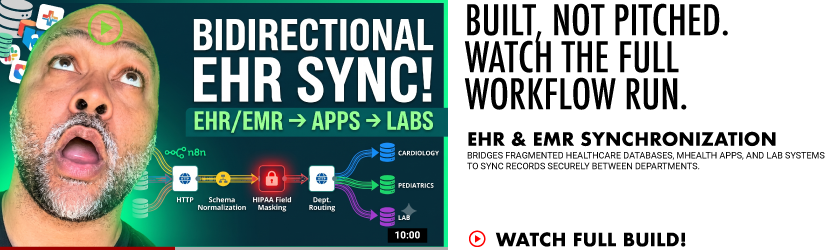
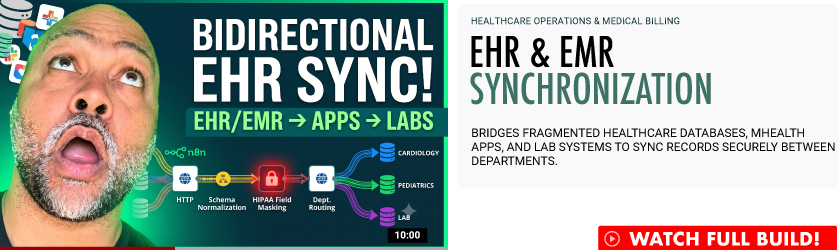
Updated README thumbnail image

diff --git a/README.md b/README.md
@@ -4,5 +4,5 @@
 
 # EHR-Sync
 ### Healthcare Operations & Medical Billing 
-Bidirectional EHR/EMR sync pipeline: bridges fragmented healthcare databases, mHealth apps, and lab systems through n8n HTTP nodes with schema normalization, HIPAA-aware field masking, and department-level routing logic.  
+Bridges fragmented healthcare databases, mHealth apps, and lab systems to sync records securely between departments.   
 [See Full Build](https://adbyrdllc.wixstudio.com/iautomateshit/demos) 